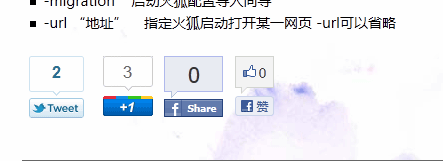
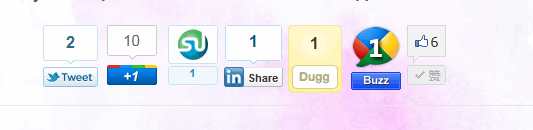
git-svn-id: https://plugins.svn.wordpress.org/facebooktwittergoogle-plus-one-share-buttons/trunk@415770 b8457f37-d9ea-0310-8a92-e5e31aec5664

diff --git a/Facebook_Twitter_Google_plus-one_Share_Buttons.php b/Facebook_Twitter_Google_plus-one_Share_Buttons.php
@@ -2,8 +2,8 @@
 /*
 Plugin Name: Facebook,Twitter,Google plus one Share Buttons
 Plugin URI: http://www.92app.com/wordpress-plugins/facebook-twitter-google-plus-one-share-buttons
-Description: This simple yet easy-to-use plugin adds the most important social share buttons: facebook, twitter and google +1 (plus one) after post contents. 
-Version: 1.1
+Description: This simple yet easy-to-use plugin adds facebook,twitter,google +1(plus one) and many other popular social sharing buttons after post contents,such as:Stumbleupon,Linkedin,Digg and Google Buzz.
+Version: 1.2
 Author: Jeriff Cheng
 Author URI: http://www.92app.com/
 */
@@ -25,26 +25,43 @@ You should have received a copy of the GNU General Public License
 along with this program.  If not, see <http://www.gnu.org/licenses/>.
     
 */
+//load the javascript
 function socialbutton_integration() {
 if (is_single()) { ?> 
-<script type="text/javascript" src="http://platform.twitter.com/widgets.js"></script>
-<script type="text/javascript" src="<?php echo get_option('siteurl') . '/' . PLUGINDIR . '/' . dirname(plugin_basename (__FILE__))?>/FB.Share" ></script>
 <script type="text/javascript" src="https://apis.google.com/js/plusone.js"></script>
+<script type="text/javascript" src="http://www.google.com/buzz/api/button.js"></script>
+<script type="text/javascript" src="http://platform.twitter.com/widgets.js"></script>
+<script src="http://platform.linkedin.com/in.js" type="text/javascript"></script>
+<script type="text/javascript">
+(function() {
+var s = document.createElement('SCRIPT'), s1 = document.getElementsByTagName('SCRIPT')[0];
+s.type = 'text/javascript';
+s.async = true;
+s.src = 'http://widgets.digg.com/buttons.js';
+s1.parentNode.insertBefore(s, s1);
+})();
+</script>
 <?php }
  }
 add_action('wp_footer', 'socialbutton_integration');
 
+//insert the buttons after post contents
 function socialbutton($content) {
 if(is_single()) {
 $content.= '
-<style type="text/css">
+<style>
 *{margin:0; padding:0;}
-ul{margin:0;padding:0;list-style:none;} #socialbuttonnav{overflow:hidden;margin:0 auto;list-style:none;}#socialbuttonnav li{width:70px;line-height:20px; border:none; margin-right:1px; float:left; text-align:center;}
+ul{ list-style:none;}
+#socialbuttonnav {width:90%; overflow:hidden;margin:0 auto;}
+#socialbuttonnav li{overflow:hidden;width:60px; height:80px; line-height:30px; margin-right:1px; float:left; text-align:center;}
 </style>
 <ul id="socialbuttonnav">
 <li><!-- Twitter--><div><a name="twitter_share" data-count="vertical" href="http://twitter.com/share" class="twitter-share-button" >Tweet</a></div></li>
 <li><!-- Google plus one--><div><g:plusone size="tall" count="true"></g:plusone></div></li>
-<li><!-- Facebook share--><div><a name="fb_share" type="box_count" href="http://www.facebook.com/sharer.php">Share</a></div></li>
+<li><!-- stumbleupon--><div><script src="http://www.stumbleupon.com/hostedbadge.php?s=5"></script></div></li>
+<li><!-- linkedin--><div><script type="in/share" data-counter="top"></script></div></li>
+<li><!-- digg--><div><a class="DiggThisButton DiggMedium" href="http://digg.com/submit?url="<?php the_permalink(); ?>"&amp;title="<?php the_title(); ?>""></a></div></li>
+<li><!-- Buzz--><div><a title="Post to Google Buzz" class="google-buzz-button" href="http://www.google.com/buzz/post" data-button-style="normal-count"></a></div></li>
 <li><!-- Facebook like--><div id="fb-root"></div><script src="http://connect.facebook.net/en_US/all.js#appId=220231561331594&amp;xfbml=1"></script><fb:like href="" send="false" layout="box_count" width="450" show_faces="false" font=""></fb:like></li>
 </ul>';
 }
